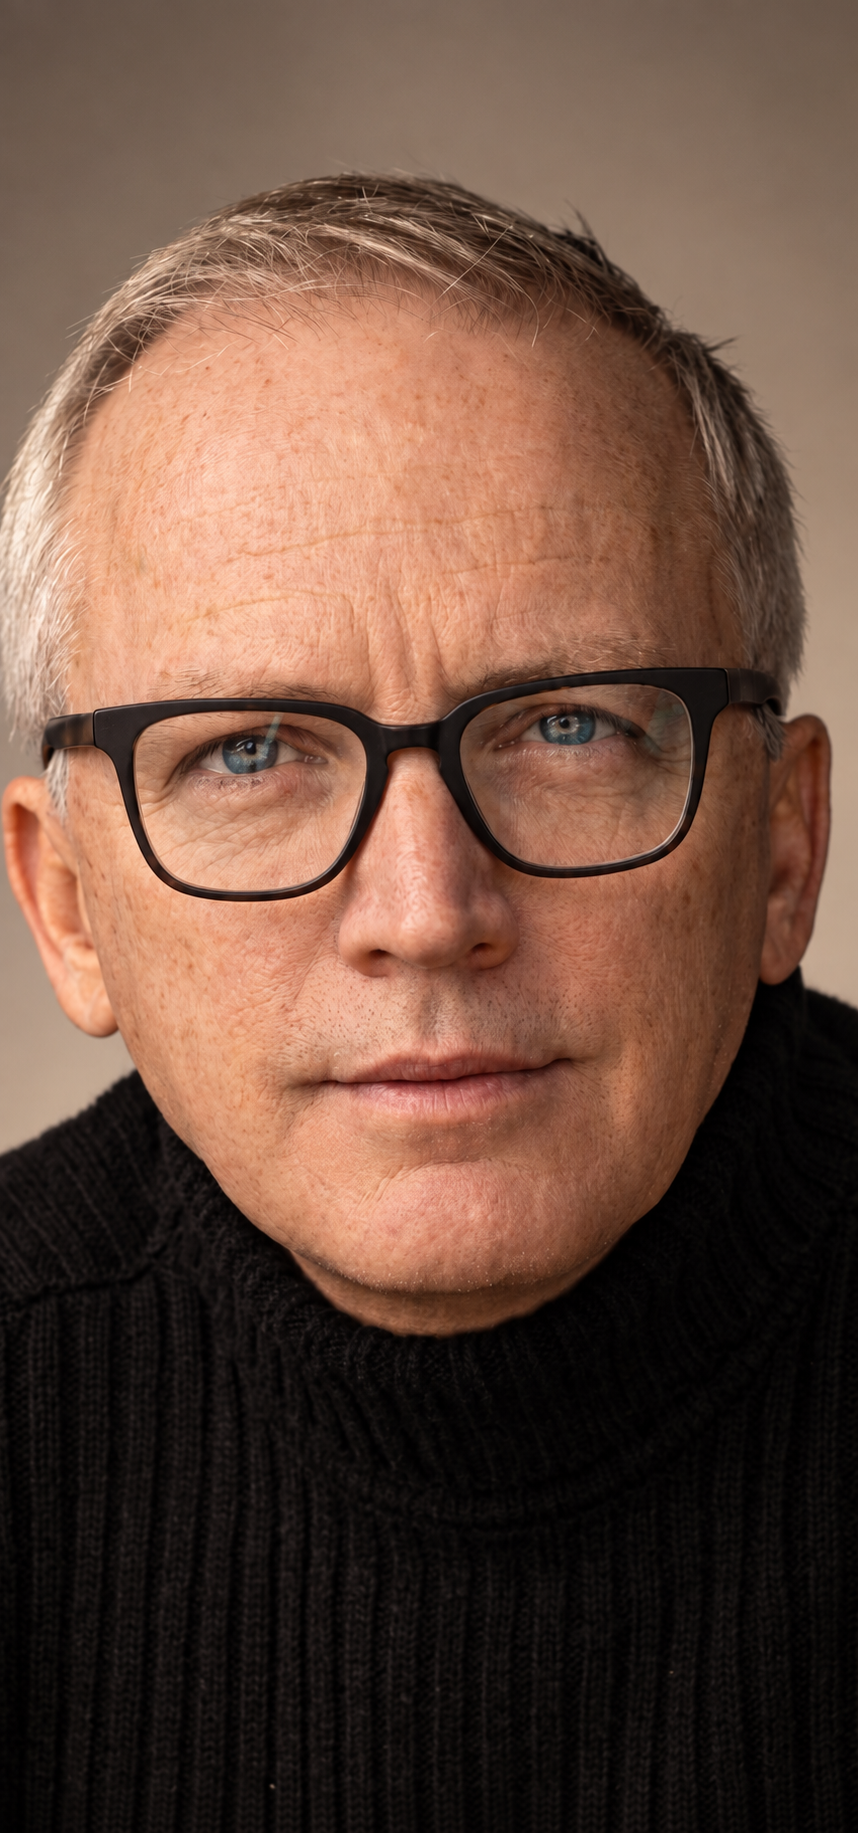
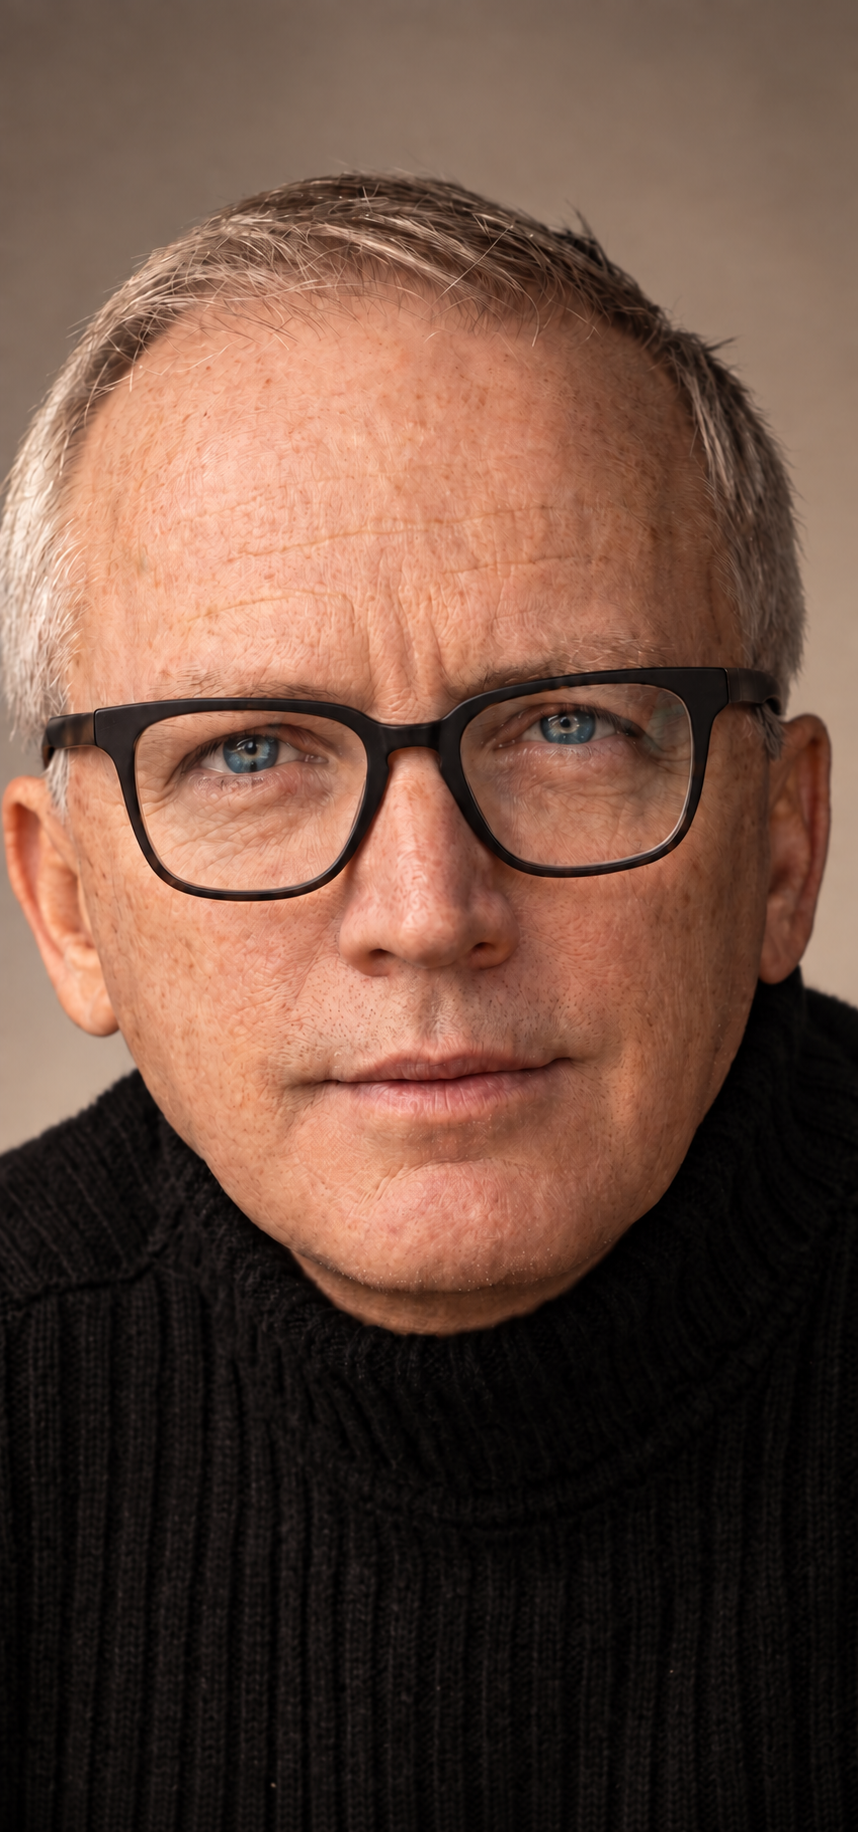
Show full warm portrait and remove eyeglass glare

diff --git a/site-updates.css b/site-updates.css
@@ -23,4 +23,4 @@ footer.site .rule{color:var(--charcoal-200)}
 
 .hero .session-rates{display:flex;flex-wrap:wrap;gap:8px 24px}.hero .session-rates .value{white-space:nowrap}.hero .session-rates .value em{opacity:1;color:var(--cream-200)}
 
-.about-jeff .aj-photo img{aspect-ratio:4/5;object-fit:cover;object-position:center 32%}
+.about-jeff .aj-photo img{height:auto;aspect-ratio:auto;object-fit:contain}
